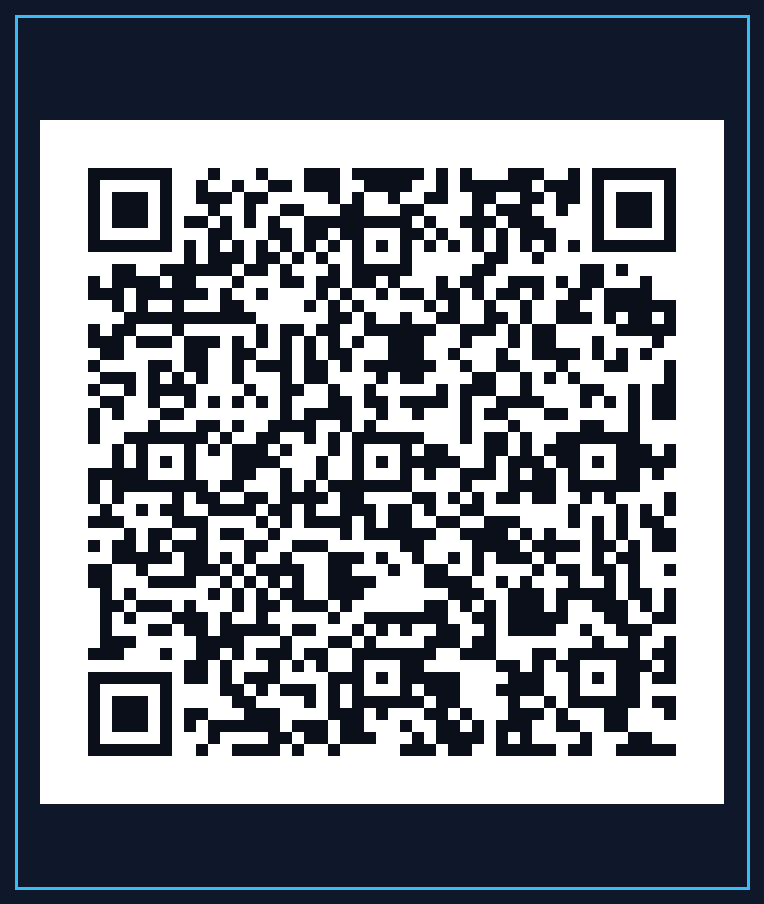
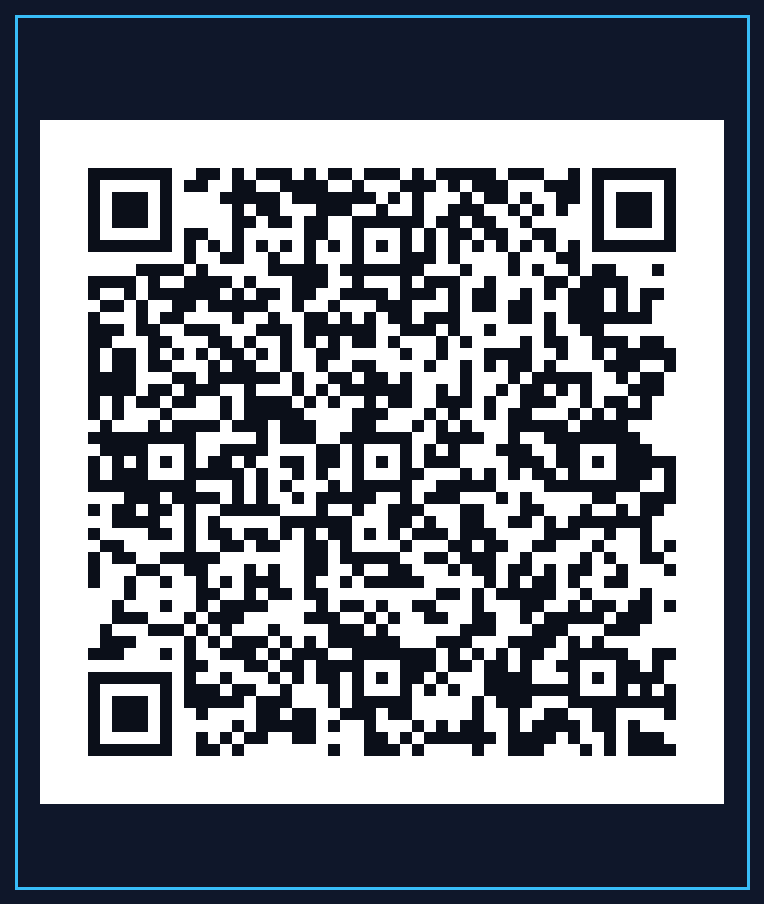
Update QR code assets and target URL for u89279221-web repo

Changed region(s): [[0.0903, 0.1858, 0.9031, 0.8363]]

diff --git a/qr_code_photo.html b/qr_code_photo.html
@@ -175,7 +175,7 @@
 
       <div class="photo-footer">
         <p>Point your mobile camera at this code to launch:</p>
-        <div class="url-badge" id="urlBadge">https://azizmnadaf26-glitch.github.io/LabCastAI-web/lab_assistant.html</div>
+        <div class="url-badge" id="urlBadge">https://u89279221-web.github.io/Labcast-AI-chatbox/lab_assistant.html</div>
       </div>
     </div>
 
@@ -190,7 +190,7 @@
 
   <script>
     window.addEventListener('DOMContentLoaded', () => {
-      const targetUrl = "https://azizmnadaf26-glitch.github.io/LabCastAI-web/lab_assistant.html";
+      const targetUrl = "https://u89279221-web.github.io/Labcast-AI-chatbox/lab_assistant.html";
       const qrElement = document.getElementById('qrcode');
       
       if (typeof QRCode !== 'undefined') {

diff --git a/generate_qr_photo.py b/generate_qr_photo.py
@@ -47,5 +47,5 @@ def generate_styled_qr(url, output_filename, title_text="3D PRINTER AI ASSISTANT
 
 if __name__ == '__main__':
     # 100% Permanent GitHub Pages URL (works on any phone, anywhere, exactly like Google without any IP prompt)
-    generate_styled_qr("https://azizmnadaf26-glitch.github.io/LabCastAI-web/lab_assistant.html", r"lab_chatbot_qr.png")
+    generate_styled_qr("https://u89279221-web.github.io/Labcast-AI-chatbox/lab_assistant.html", r"lab_chatbot_qr.png")
     generate_styled_qr("http://192.168.29.4:8000/lab_assistant.html", r"lab_chatbot_qr_local.png")
